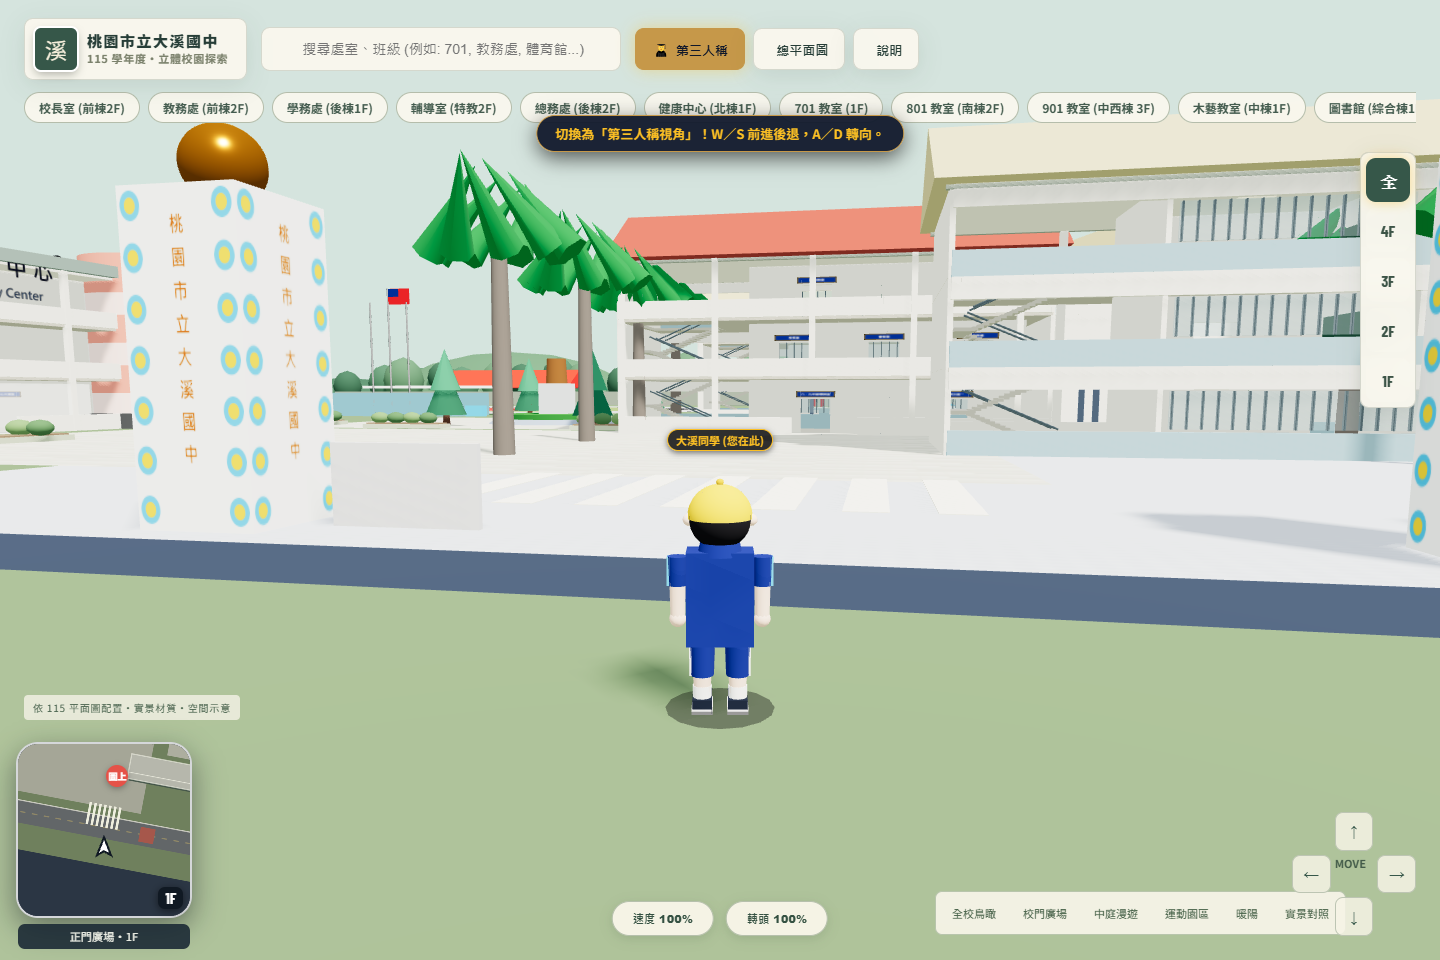
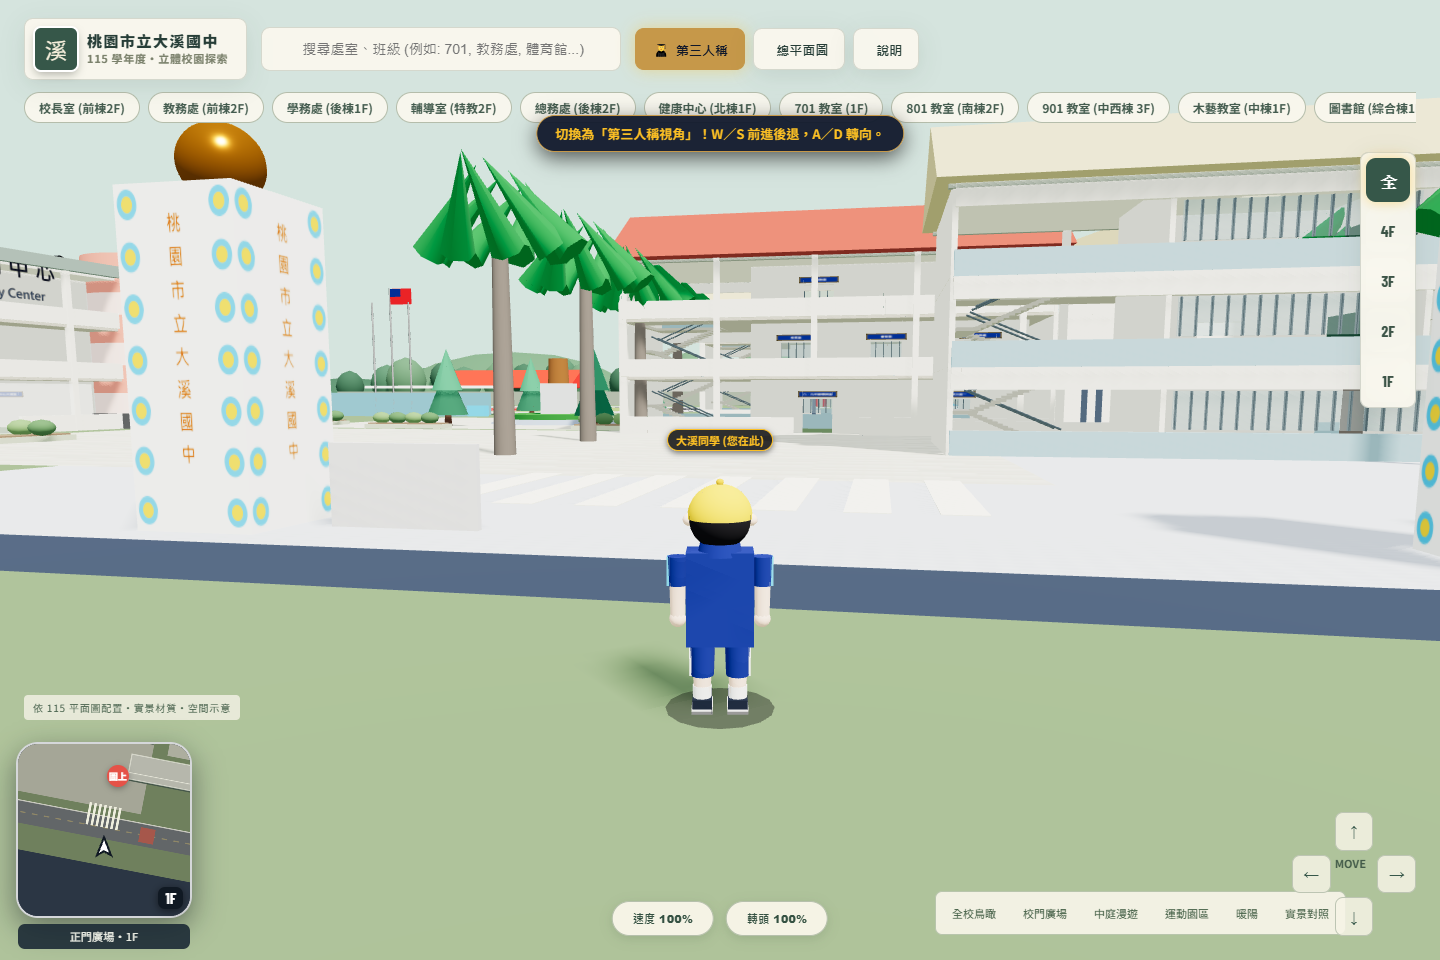
test: record live campus walking verification

diff --git a/docs/scene-rebuild/2026-10-08-walk-and-stairs.md b/docs/scene-rebuild/2026-10-08-walk-and-stairs.md
@@ -12,10 +12,12 @@
 - [x] 套用人物方向與地面判定，保留碰撞。
 - [x] 實際鍵盤／手機操作、入房、下樓及鏡頭方向，檢查多棟樓層。
 - [x] 完整測試及打包。
-- 部署後使用同一驗證程式檢查 GitHub Pages 線上版本。
+- [x] 同一 GitHub Pages 已部署成功，線上版本完整行走驗證通過。
 
 照片參考：`3D/04_走廊穿堂與連通道`、`3D/05_普通教室內部結構`、`3D/06_專科教室與行政空間`。採用護壁、窗框、黑板、桌椅、OA 隔板與照明的形狀／配色，原照片只在本機參考。
 
 驗證程式：`scripts/verify-walk-world.cjs`，93 個目的地皆有路徑；40 梯段上下可通行。實際動畫走到教務處 2F、901 教室 3F、藝術教室 4F，並用手動移動從教務處沿樓梯回到 1F。Headless 軟體 GPU 路徑測試期間暫停 render，保留真實 requestAnimationFrame 與移動狀態；每次截圖還原 renderer。此測試不作為實際裝置 FPS 測量。
 
 各棟室內以一座雙段折返梯示意連接樓層，尚非每座實體樓梯的測量還原。跳躍下降依腳下梯面落地，避免上樓途中掉回起跳樓層。
+
+發布驗證：場景提交 `89838f9`，GitHub Actions `37789961872` 成功；公開站點與本機三份核心 JS 相符。41 項單元測試、打包、防穿牆測試與線上行走測試均通過。自動驗證等候 iframe 導航及實際手機轉向狀態，避免網路／軟體 GPU 載入時間造成誤判。
